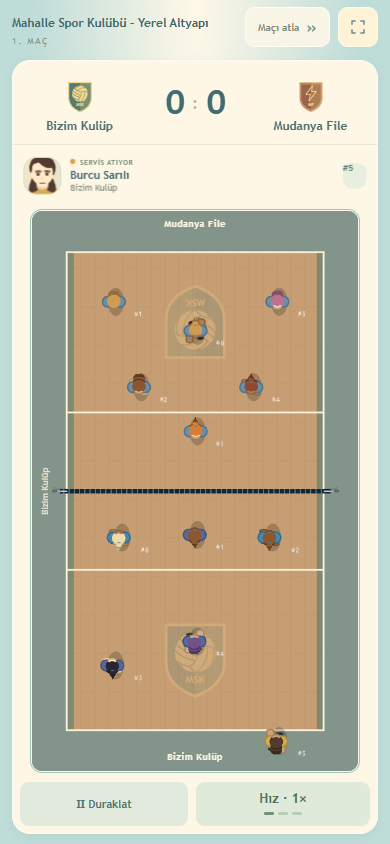
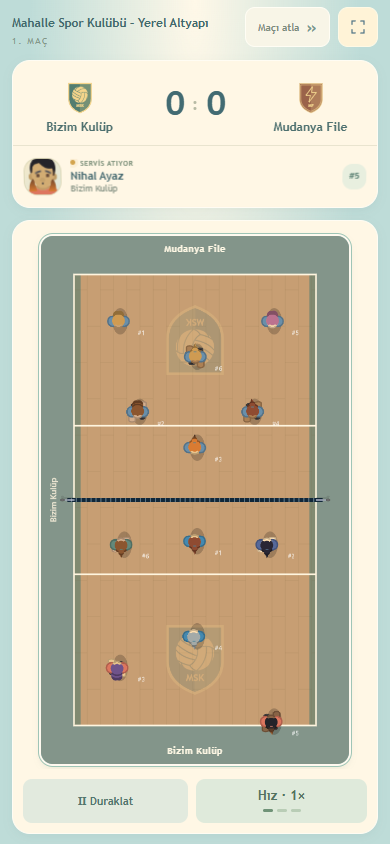
Fit fullscreen UI to visible viewport and restore separate match panels

diff --git a/mac.html b/mac.html
@@ -1,4 +1,4 @@
-<!doctype html><html lang="tr"><head><script>if(new URLSearchParams(location.search).get("bootPepper")==="1")document.documentElement.classList.add("boot-pepper-only");</script><style>html.boot-pepper-only,html.boot-pepper-only body{background:#fff3d7!important}html.boot-pepper-only body>:not(#bootPepperStage){display:none!important}</style><meta charset="utf-8"><meta name="viewport" content="width=device-width,initial-scale=1,viewport-fit=cover"><title>Maç günü · Idle Spiker</title><style>*{box-sizing:border-box}body{margin:0;background:#101a29;color:#edf3fc;font:15px system-ui}main{max-width:1200px;margin:auto;padding:24px}header,.toolbar{display:flex;align-items:center;justify-content:space-between;gap:16px;flex-wrap:wrap}h1{font-size:25px;margin:0}p{color:#a9b8cd}a{color:#b0efd4}button,select{font:inherit;background:#233850;color:#fff;border:1px solid #4b617a;border-radius:9px;padding:10px 15px;cursor:pointer}.toolbar{justify-content:flex-start;margin:18px 0}canvas{display:block;width:100%;background:#19394a;border-radius:16px;border:1px solid #40596a}#score{font-size:24px;font-weight:700}#event{padding:14px;background:#1d2b3e;border-radius:10px;margin:12px 0;min-height:48px}.muted{font-size:13px}input{vertical-align:middle;max-width:120px}</style><link rel="stylesheet" href="match-mobile.css?v=5e317d4d24de"><link rel="stylesheet" href="match-skills.css?v=6fd30ac70f90"><link rel="stylesheet" href="language.css?v=b027c2a552b8"><script src="language-data.js?v=80bdfed06357"></script><script src="language.js?v=6352cc5dd035"></script><link rel="stylesheet" href="match-rival-styles.css?v=784f5d52bc09"><link rel="stylesheet" href="modal-backdrop.css?v=aaf247696ed5"><link rel="stylesheet" href="flow-lanes.css?v=d7f1e62ee16b"><link rel="stylesheet" href="match-announcement.css?v=2d5af2835f11"><link rel="stylesheet" href="match-ap-bubbles.css?v=b14d0d797014"></head><body><main><div class="match-heading"><small>MAHALLE SPOR KULÜBÜ</small><h2>Maç günü</h2></div><div class="team-labels"><span>🔵 Bizim takım</span><span>Rakip takım 🔴</span></div><header><div><h1>Deneme modu · Voleybol</h1><p>Bizim karakterler, üç vuruş ve arada kaçan toplar.</p></div><a href="uc-parca-editoru.html">← Yerleşim editörüne dön</a><div id="score">0 : 0</div></header><div class="toolbar"><button id="pause">Duraklat</button><button id="restart">Maçı yeniden başlat</button><label>Top <select id="ballStyle"><option value="ball_volley1.png">Beyaz voleybol topu</option><option value="ball_volley2.png">Sarı voleybol topu</option></select></label><label>Hız <select id="speed"><option value="0.7">Yavaş</option><option value="1" selected>Normal</option><option value="1.5">Hızlı</option></select></label><label>Top düşürme <input id="mistakes" type="range" min="0" max="35" value="12"> <span id="rate">%12</span></label><span id="touch">Servis hazırlanıyor</span></div><div class="toolbar" aria-label="Senaryo testleri"><strong>WASD · Shift: adımlama · Space: smaç · E: yönlü toss</strong><button id="controlPlayer">Oyuncuyu kontrol et · WASD</button><button id="feedBall">Pas iste</button><button id="practiceServe">Servisi dene</button><button id="test-block">Blok</button><button id="test-toss">Toss / Pas</button><button id="test-serve">Servis</button><button id="test-spike">Spike / Smaç</button><button id="returnMatch">Maça dön</button><button id="testRotation">↻ Rotasyonu göster</button><label>Formasyon <select id="formationMode"><option value="auto">Otomatik maç</option><option value="serve">Servis</option><option value="receive">Karşılama (W)</option><option value="attack">Hücum hazırlığı</option><option value="defend">Blok / savunma</option></select></label></div><section id="servicePanel" hidden style="padding:16px;background:#263f56;border-radius:12px;margin-bottom:12px"><strong>Servis sırası sende</strong><p id="serviceHint"></p><progress id="serviceMeter" max="100" value="0" style="width:220px"></progress> <span id="serviceReadout"></span> <button id="serviceAction">Space</button></section><div class="court-space"><div class="court-viewport"><span class="court-team court-away" data-team-name="1">Rakip takım</span><span class="court-team court-home" data-team-name="0">Bizim Kulüp</span><canvas id="court" width="1000" height="620"></canvas></div></div><div class="match-controls"><button id="mobilePause">Ⅱ Duraklat</button><button id="mobileSpeed">Hız · 1×</button></div><div id="event" role="status">Karakterler hazırlanıyor…</div><p class="muted">Servis hakkını kazanan takım saat yönünde döner; aynı takım sayı aldığında aynı oyuncu servis atar. Set: 5 sayı ve en az 2 fark. Otomatik 6’ya 6 oyun: karşılama → takım içi pas → üçüncü vuruşla karşıya gönderme. Kaçan top yere düşer, sayı yazılır ve yeni servis başlar. Kollar onayladığın omuz bağlantıları etrafında hareket eder.</p></main><script src="rival-styles.js?v=a43c42c91007"></script><script>
+<!doctype html><html lang="tr"><head><script>if(new URLSearchParams(location.search).get("bootPepper")==="1")document.documentElement.classList.add("boot-pepper-only");</script><style>html.boot-pepper-only,html.boot-pepper-only body{background:#fff3d7!important}html.boot-pepper-only body>:not(#bootPepperStage){display:none!important}</style><meta charset="utf-8"><meta name="viewport" content="width=device-width,initial-scale=1,viewport-fit=cover"><title>Maç günü · Idle Spiker</title><style>*{box-sizing:border-box}body{margin:0;background:#101a29;color:#edf3fc;font:15px system-ui}main{max-width:1200px;margin:auto;padding:24px}header,.toolbar{display:flex;align-items:center;justify-content:space-between;gap:16px;flex-wrap:wrap}h1{font-size:25px;margin:0}p{color:#a9b8cd}a{color:#b0efd4}button,select{font:inherit;background:#233850;color:#fff;border:1px solid #4b617a;border-radius:9px;padding:10px 15px;cursor:pointer}.toolbar{justify-content:flex-start;margin:18px 0}canvas{display:block;width:100%;background:#19394a;border-radius:16px;border:1px solid #40596a}#score{font-size:24px;font-weight:700}#event{padding:14px;background:#1d2b3e;border-radius:10px;margin:12px 0;min-height:48px}.muted{font-size:13px}input{vertical-align:middle;max-width:120px}</style><link rel="stylesheet" href="match-mobile.css?v=af0d6b245ca2"><link rel="stylesheet" href="match-skills.css?v=6fd30ac70f90"><link rel="stylesheet" href="language.css?v=b027c2a552b8"><script src="language-data.js?v=80bdfed06357"></script><script src="language.js?v=6352cc5dd035"></script><link rel="stylesheet" href="match-rival-styles.css?v=784f5d52bc09"><link rel="stylesheet" href="modal-backdrop.css?v=aaf247696ed5"><link rel="stylesheet" href="flow-lanes.css?v=d7f1e62ee16b"><link rel="stylesheet" href="match-announcement.css?v=15c71fd1f7ac"><link rel="stylesheet" href="match-ap-bubbles.css?v=b14d0d797014"></head><body><main><div class="match-heading"><small>MAHALLE SPOR KULÜBÜ</small><h2>Maç günü</h2></div><div class="team-labels"><span>🔵 Bizim takım</span><span>Rakip takım 🔴</span></div><header><div><h1>Deneme modu · Voleybol</h1><p>Bizim karakterler, üç vuruş ve arada kaçan toplar.</p></div><a href="uc-parca-editoru.html">← Yerleşim editörüne dön</a><div id="score">0 : 0</div></header><div class="toolbar"><button id="pause">Duraklat</button><button id="restart">Maçı yeniden başlat</button><label>Top <select id="ballStyle"><option value="ball_volley1.png">Beyaz voleybol topu</option><option value="ball_volley2.png">Sarı voleybol topu</option></select></label><label>Hız <select id="speed"><option value="0.7">Yavaş</option><option value="1" selected>Normal</option><option value="1.5">Hızlı</option></select></label><label>Top düşürme <input id="mistakes" type="range" min="0" max="35" value="12"> <span id="rate">%12</span></label><span id="touch">Servis hazırlanıyor</span></div><div class="toolbar" aria-label="Senaryo testleri"><strong>WASD · Shift: adımlama · Space: smaç · E: yönlü toss</strong><button id="controlPlayer">Oyuncuyu kontrol et · WASD</button><button id="feedBall">Pas iste</button><button id="practiceServe">Servisi dene</button><button id="test-block">Blok</button><button id="test-toss">Toss / Pas</button><button id="test-serve">Servis</button><button id="test-spike">Spike / Smaç</button><button id="returnMatch">Maça dön</button><button id="testRotation">↻ Rotasyonu göster</button><label>Formasyon <select id="formationMode"><option value="auto">Otomatik maç</option><option value="serve">Servis</option><option value="receive">Karşılama (W)</option><option value="attack">Hücum hazırlığı</option><option value="defend">Blok / savunma</option></select></label></div><section id="servicePanel" hidden style="padding:16px;background:#263f56;border-radius:12px;margin-bottom:12px"><strong>Servis sırası sende</strong><p id="serviceHint"></p><progress id="serviceMeter" max="100" value="0" style="width:220px"></progress> <span id="serviceReadout"></span> <button id="serviceAction">Space</button></section><div class="court-space"><div class="court-viewport"><span class="court-team court-away" data-team-name="1">Rakip takım</span><span class="court-team court-home" data-team-name="0">Bizim Kulüp</span><canvas id="court" width="1000" height="620"></canvas></div></div><div class="match-controls"><button id="mobilePause">Ⅱ Duraklat</button><button id="mobileSpeed">Hız · 1×</button></div><div id="event" role="status">Karakterler hazırlanıyor…</div><p class="muted">Servis hakkını kazanan takım saat yönünde döner; aynı takım sayı aldığında aynı oyuncu servis atar. Set: 5 sayı ve en az 2 fark. Otomatik 6’ya 6 oyun: karşılama → takım içi pas → üçüncü vuruşla karşıya gönderme. Kaçan top yere düşer, sayı yazılır ve yeni servis başlar. Kollar onayladığın omuz bağlantıları etrafında hareket eder.</p></main><script src="rival-styles.js?v=a43c42c91007"></script><script>
 (function(root){
 'use strict';
 const clamp=(n,a,b)=>Math.max(a,Math.min(b,n));

diff --git a/index.html b/index.html
@@ -1,5 +1,5 @@
 <!doctype html>
-<html lang="tr"><head><script src="flow-preview-environment.js?v=bd84173813bd"></script><meta charset="utf-8"><meta name="viewport" content="width=device-width,initial-scale=1,viewport-fit=cover"><meta name="theme-color" content="#72c8e5"><link rel="manifest" href="manifest.webmanifest"><link rel="apple-touch-icon" href="assets/app/apple-touch-icon.png"><meta name="apple-mobile-web-app-capable" content="yes"><meta name="apple-mobile-web-app-title" content="Idle Spiker"><meta name="apple-mobile-web-app-status-bar-style" content="default"><link rel="stylesheet" href="app-display.css?v=080ecf4daa9a"><script src="app-display.js?v=a34608f5d515" defer></script><title>Idle Spiker · Kulüp Merkezi</title><link rel="stylesheet" href="menu.css?v=7f4cff442596"><link rel="stylesheet" href="menu-game.css?v=7c47dfcd1936"><link rel="stylesheet" href="team.css?v=bcffe6b92c1a"><link rel="stylesheet" href="league-season.css?v=6a6a164bc92c"><style>#bootScreen{position:fixed;inset:0;max-width:480px;margin-inline:auto;z-index:10000;display:grid;place-content:center;justify-items:center;gap:20px;background:#fff3d7;color:#547c83;font-family:system-ui,sans-serif}#bootScreen strong{font-size:30px;letter-spacing:2px}#bootScreen strong span{color:#bb995b}#bootScreen p{font-size:12px;margin:0;color:#819383}#bootPepper{visibility:hidden;width:260px;height:212px;border:0;background:transparent;pointer-events:none}#bootScreen img{width:48px;height:48px;animation:boot-bounce 1.2s ease-in-out infinite}@keyframes boot-bounce{50%{transform:translateY(-12px) rotate(18deg)}}@media(prefers-reduced-motion:reduce){#bootScreen img{animation:none}}</style><link rel="stylesheet" href="club-journey.css?v=917a08a31784"><link rel="stylesheet" href="bal-stage.css?v=444abd056d33"><script src="season-clock.js?v=656aaba36264"></script><script src="bal-recovery.js?v=003056f070b8"></script><script src="weekly-season-migration.js?v=c91052e58aec"></script><script src="number-ui.js?v=a24b5930e991"></script><link rel="stylesheet" href="theme.css?v=0b9605642a6e"><script src="theme.js?v=2ff3fa24a10d"></script><link rel="stylesheet" href="achievements.css?v=1c29bee815e6"><link rel="stylesheet" href="division-three.css?v=78ff12e9b771"><link rel="stylesheet" href="social-screen.css?v=6af08b4f68fb"><link rel="stylesheet" href="league-players.css?v=86e88a43a3b5"><link rel="stylesheet" href="language.css?v=b027c2a552b8"><script src="language-data.js?v=80bdfed06357"></script><script src="language.js?v=6352cc5dd035"></script><link rel="stylesheet" href="player-skills.css?v=c6311b52ef2f"><link rel="stylesheet" href="styles/ui/player-club-card.css?v=db2b858286ff"><link rel="stylesheet" href="styles/ui/transfer-center.css?v=7bcc2f214fba"><script src="scripts/ui/dialog-navigation.js?v=0988251be4a1" defer></script><link rel="stylesheet" href="social-journey.css?v=381c58c2dc22"><link rel="stylesheet" href="next-match-card.css?v=05b830fcc39d"><link rel="stylesheet" href="social-follower-counter.css?v=038892551d63"><link rel="stylesheet" href="player-profile.css?v=9c3d709eac72"><link rel="stylesheet" href="ui-icons.css?v=b5ce6adfd485"><link rel="stylesheet" href="flow-effects.css?v=f82bf838ab8c"><link rel="stylesheet" href="board-doodles.css?v=85c5f17bdbe1"><link rel="stylesheet" href="board-presentation.css?v=3ae360fc348f"><link rel="stylesheet" href="progression-visuals.css?v=1e6ac8134075"><link rel="stylesheet" href="flow-lanes.css?v=d7f1e62ee16b"><link rel="stylesheet" href="flow-media-theme.css?v=a959430cbe25"><link rel="stylesheet" href="ui-components.css?v=7134f0d3ab29"><link rel="stylesheet" href="academy.css?v=1b4435c160c0"></head>
+<html lang="tr"><head><script src="flow-preview-environment.js?v=bd84173813bd"></script><meta charset="utf-8"><meta name="viewport" content="width=device-width,initial-scale=1,viewport-fit=cover"><meta name="theme-color" content="#72c8e5"><link rel="manifest" href="manifest.webmanifest"><link rel="apple-touch-icon" href="assets/app/apple-touch-icon.png"><meta name="apple-mobile-web-app-capable" content="yes"><meta name="apple-mobile-web-app-title" content="Idle Spiker"><meta name="apple-mobile-web-app-status-bar-style" content="default"><link rel="stylesheet" href="app-display.css?v=01623cdf88a1"><script src="app-display.js?v=1c48fe0ea047" defer></script><title>Idle Spiker · Kulüp Merkezi</title><link rel="stylesheet" href="menu.css?v=7f4cff442596"><link rel="stylesheet" href="menu-game.css?v=7c47dfcd1936"><link rel="stylesheet" href="team.css?v=bcffe6b92c1a"><link rel="stylesheet" href="league-season.css?v=6a6a164bc92c"><style>#bootScreen{position:fixed;inset:0;max-width:480px;margin-inline:auto;z-index:10000;display:grid;place-content:center;justify-items:center;gap:20px;background:#fff3d7;color:#547c83;font-family:system-ui,sans-serif}#bootScreen strong{font-size:30px;letter-spacing:2px}#bootScreen strong span{color:#bb995b}#bootScreen p{font-size:12px;margin:0;color:#819383}#bootPepper{visibility:hidden;width:260px;height:212px;border:0;background:transparent;pointer-events:none}#bootScreen img{width:48px;height:48px;animation:boot-bounce 1.2s ease-in-out infinite}@keyframes boot-bounce{50%{transform:translateY(-12px) rotate(18deg)}}@media(prefers-reduced-motion:reduce){#bootScreen img{animation:none}}</style><link rel="stylesheet" href="club-journey.css?v=917a08a31784"><link rel="stylesheet" href="bal-stage.css?v=444abd056d33"><script src="season-clock.js?v=656aaba36264"></script><script src="bal-recovery.js?v=003056f070b8"></script><script src="weekly-season-migration.js?v=c91052e58aec"></script><script src="number-ui.js?v=a24b5930e991"></script><link rel="stylesheet" href="theme.css?v=0b9605642a6e"><script src="theme.js?v=2ff3fa24a10d"></script><link rel="stylesheet" href="achievements.css?v=1c29bee815e6"><link rel="stylesheet" href="division-three.css?v=78ff12e9b771"><link rel="stylesheet" href="social-screen.css?v=6af08b4f68fb"><link rel="stylesheet" href="league-players.css?v=86e88a43a3b5"><link rel="stylesheet" href="language.css?v=b027c2a552b8"><script src="language-data.js?v=80bdfed06357"></script><script src="language.js?v=6352cc5dd035"></script><link rel="stylesheet" href="player-skills.css?v=c6311b52ef2f"><link rel="stylesheet" href="styles/ui/player-club-card.css?v=db2b858286ff"><link rel="stylesheet" href="styles/ui/transfer-center.css?v=7bcc2f214fba"><script src="scripts/ui/dialog-navigation.js?v=0988251be4a1" defer></script><link rel="stylesheet" href="social-journey.css?v=381c58c2dc22"><link rel="stylesheet" href="next-match-card.css?v=05b830fcc39d"><link rel="stylesheet" href="social-follower-counter.css?v=038892551d63"><link rel="stylesheet" href="player-profile.css?v=9c3d709eac72"><link rel="stylesheet" href="ui-icons.css?v=b5ce6adfd485"><link rel="stylesheet" href="flow-effects.css?v=f82bf838ab8c"><link rel="stylesheet" href="board-doodles.css?v=85c5f17bdbe1"><link rel="stylesheet" href="board-presentation.css?v=3ae360fc348f"><link rel="stylesheet" href="progression-visuals.css?v=1e6ac8134075"><link rel="stylesheet" href="flow-lanes.css?v=d7f1e62ee16b"><link rel="stylesheet" href="flow-media-theme.css?v=a959430cbe25"><link rel="stylesheet" href="ui-components.css?v=7134f0d3ab29"><link rel="stylesheet" href="academy.css?v=1b4435c160c0"></head>
 <body><div id="bootScreen" role="status" aria-live="polite"><strong>IDLE<span>SPIKER</span></strong><iframe id="bootPepper" src="mac.html?bootPepper=1" title="Isınma yapan iki oyuncu" tabindex="-1" aria-hidden="true"></iframe><p>Kulüp hazırlanıyor…</p></div><script>window.bootStartedAt=performance.now();window.bootFallback=setTimeout(function(){document.getElementById("bootScreen")?.remove()},10000)</script><div class="shell"><aside class="rail"><a class="brand" href="index.html" aria-label="Idle Spiker ana menü"><svg viewBox="0 0 40 40" aria-hidden="true"><circle cx="20" cy="20" r="15"/><path d="M7 13q15 0 18 22M19 5q-5 13-12 19M34 17q-12-3-19 13"/></svg></a><span class="rail-word">IDLE SPIKER</span><a class="rail-icon active" href="index.html" aria-label="Kulüp merkezi" title="Kulüp merkezi">⌂</a><span class="rail-bottom">01 / CLUB</span></aside>
 <div class="content"><header class="topbar"><a href="index.html" class="wordmark">IDLE<span>SPIKER</span><small>VOLEYBOL KULÜBÜ</small></a><nav aria-label="Ana gezinme"><span class="nav-current">Kulüp merkezi</span></nav><button id="settingsButton" class="settings-button" type="button" aria-label="Ayarları aç">⚙ Ayarlar</button></header>
 <main><div class="dashboard"><section id="clubPanel" class="club-panel" aria-label="Kulüp departmanları"><div class="section-top"><div><span class="eyebrow">BİZİM KULÜP · AŞAMA 1</span></div></div>

diff --git a/app-display.js b/app-display.js
@@ -6,9 +6,21 @@ const appMode=()=>installed||standalone.matches||(fullscreen.matches&&!fullEleme
 const fullElement=()=>document.fullscreenElement||document.webkitFullscreenElement;
 const supported=()=>!!((document.fullscreenEnabled&&document.documentElement.requestFullscreen)||(document.webkitFullscreenEnabled&&document.documentElement.webkitRequestFullscreen));
 let toggle,install,status,matchButton,help;
+let viewportFrame=0;
+function fitViewport(){
+ const root=document.documentElement,v=window.visualViewport,unzoomed=v&&Math.abs(v.scale-1)<.01;
+ const width=unzoomed?Math.min(innerWidth,v.width):innerWidth,height=unzoomed?Math.min(innerHeight,v.height):innerHeight;
+ const top=unzoomed?v.offsetTop:0,left=unzoomed?v.offsetLeft:0;
+ const values={'--app-view-height':height,'--app-view-width':width,'--app-view-top':top,'--app-view-left':left,'--app-view-bottom':Math.max(0,innerHeight-height-top),'--app-view-right':Math.max(0,innerWidth-width-left)};
+ for(const [key,value]of Object.entries(values)){const px=Math.round(value*100)/100+'px';if(root.style.getPropertyValue(key)!==px)root.style.setProperty(key,px);}
+}
+function scheduleViewport(){if(viewportFrame)return;viewportFrame=requestAnimationFrame(()=>{viewportFrame=0;fitViewport();});}
+addEventListener('resize',scheduleViewport);addEventListener('orientationchange',scheduleViewport);
+window.visualViewport?.addEventListener('resize',scheduleViewport);window.visualViewport?.addEventListener('scroll',scheduleViewport);
 function update(){
  if(!toggle)return;
  const active=!!fullElement();
+ document.documentElement.classList.toggle('app-expanded',active||standalone.matches||fullscreen.matches||navigator.standalone===true);fitViewport();
  toggle.disabled=busy||!supported();toggle.textContent=active?'Tam ekrandan çık':'Tam ekran';toggle.setAttribute('aria-pressed',String(active));
  matchButton.hidden=!supported();matchButton.disabled=busy;const label=active?'Tam ekrandan çık':'Tam ekran';matchButton.title=label;matchButton.setAttribute('aria-label',label);matchButton.innerHTML='<svg viewBox="0 0 24 24" width="18" height="18" fill="none" stroke="currentColor" stroke-width="1.8" aria-hidden="true"><path d="'+(active?'M4 9h5V4m11 5h-5V4M4 15h5v5m11-5h-5v5':'M9 4H4v5m11-5h5v5M4 15v5h5m11-5v5h-5')+'"/></svg>';matchButton.setAttribute('aria-pressed',String(active));
  install.disabled=appMode()||busy;install.textContent=appMode()?(installed?'Ana ekrana eklendi':'Uygulama olarak açık'):installPrompt?'Yükle':'Nasıl eklenir?';

diff --git a/app-display.css b/app-display.css
@@ -5,3 +5,11 @@ html:fullscreen,html:fullscreen body{background:#bedcd8;width:100%;height:100%}
 html:-webkit-full-screen,html:-webkit-full-screen body{background:#bedcd8;width:100%;height:100%}
 
 #installAppHelp footer{justify-content:flex-end}
+
+/* The layout viewport can stay larger than the visible screen during rotation or keyboard use. */
+html.app-expanded body{min-width:0;min-height:100%;height:auto}
+html.app-expanded .shell{min-width:0;width:min(480px,100%);max-width:100%}html.app-expanded .content{min-width:0;max-width:100%}
+html.app-expanded .mobile-nav{left:var(--app-view-left,0px);right:var(--app-view-right,0px);bottom:var(--app-view-bottom,0px);margin-inline:auto;transform:none;width:min(480px,var(--app-view-width,100vw));max-width:100%}
+html.app-expanded .energy-button{left:var(--app-view-left,0px);right:var(--app-view-right,0px);bottom:calc(var(--app-view-bottom,0px) + 68px + env(safe-area-inset-bottom));margin-inline:auto;width:min(452px,calc(var(--app-view-width,100vw) - 28px));max-width:calc(100% - 28px)}
+html.app-expanded dialog:modal{inset:var(--app-view-top,0px) var(--app-view-right,0px) var(--app-view-bottom,0px) var(--app-view-left,0px);margin:auto;max-width:calc(var(--app-view-width,100vw) - 24px)!important;max-height:calc(var(--app-view-height,100dvh) - 24px)!important;overscroll-behavior:contain}
+html.app-expanded dialog.game-match-dialog:modal{width:min(480px,var(--app-view-width,100vw));height:var(--app-view-height,100dvh);max-width:var(--app-view-width,100vw)!important;max-height:var(--app-view-height,100dvh)!important}

diff --git a/match-mobile.css b/match-mobile.css
@@ -256,14 +256,3 @@ main>header,.team-labels,.toolbar,.muted,.match-live,.team-mark,.score-team smal
 .serve-strip.point-strip-enter{animation:none}.serve-strip.has-server{transition:none}
 
 .notice-page-back>.serve-strip[data-point="false"]{background:#fff7e5!important}
-
-
-/* One continuous match sheet: the court starts directly under the announcement. */
-.match-arena{gap:0;padding:0;background:#fff7e5;border:1px solid #fffcf3;border-radius:18px;box-shadow:0 3px 10px #43675d12;overflow:hidden}
-.match-arena .match-board{flex:none;padding:9px 10px 0;background:transparent;border:0;border-radius:0;box-shadow:none}
-.match-play-area{padding:0 7px 7px;gap:6px;background:transparent;border:0;border-radius:0;box-shadow:none}
-.match-arena .court-space{padding:3px 0;border-radius:0}
-.match-arena .court-viewport{border-radius:10px;box-shadow:0 0 0 1px #fffaf0,0 0 0 2px #9fc5b6}
-.match-arena .serve-strip.has-server,.match-arena .notice-page-front,.match-arena .notice-page-back,.match-arena .score-page-back,.match-arena .score-page-underlay{border-radius:0}
-@media(max-height:700px){.match-arena{gap:0;padding:0}.match-arena .match-board{padding-top:7px}.match-play-area{padding:0 6px 6px;gap:5px}}
-@media(min-aspect-ratio:6/5) and (max-height:500px){.match-arena{gap:8px;padding:7px}.match-arena .match-board{padding:0}.match-play-area{padding:0;gap:6px}}

diff --git a/match-announcement.css b/match-announcement.css
@@ -48,3 +48,6 @@
 /* No empty skill row while the announcement only shows the player. */
 .match-arena .serve-strip.has-server:has(.server-skill[hidden]){grid-template-columns:38px minmax(0,1fr) 24px;grid-template-rows:1fr;row-gap:0}.match-arena .serve-strip.has-server:has(.server-skill[hidden]) .server-number{grid-column:3}
 
+
+/* Center the jersey text inside its existing fixed badge. */
+.match-arena .serve-strip.has-server .server-number{display:grid;place-items:center;align-self:center;text-align:center;line-height:1;margin:0;padding:0;font-variant-numeric:tabular-nums}

diff --git a/DESIGN-SYSTEM.md b/DESIGN-SYSTEM.md
@@ -409,12 +409,11 @@ Kullanıcı, başa sardığı belli olan klipler yerine topun geri döndüğü, 
 - Doğrulama: test-transfer-unopened-catalog.cjs (8 kart, kapat/aç, yenileme, hazır göstergesinin kapanması ve başarısız kayıt sonrası tekrar deneme); test-transfer-pointer.cjs; test-scout-consistency.cjs. Eski test-scouting.cjs ve test-scout-cadence.cjs mevcut 10 günlük süre / %55 başlangıç şansı yerine eski 6 gün / %40 değerlerini bekliyor; bu değişiklik keşif dengesini değiştirmez.
 
 
-## 25 Ekim 2026 — Birleşik maç yüzeyi
+## 25 Ekim 2026 — Maç düzeni (güncel)
 
-- Kullanıcının isteğiyle skor/anons ve saha ayrı kutular yerine tek krem yüzeyde birleşir. Aradaki 12px bölüm boşluğu ve ikinci kutunun üst dolgusu kaldırılır; ince saha çerçevesi korunur.
-- Anonsun 62px sabit yüksekliği, tek satır portre/yetenek düzeni ve sayı-sebebi dönüşü korunur. Saha çizim açısı ve oyuncu ölçeğiyle oynanmaz; aynı orandaki görünüm daha büyük alana sığdırılır.
-- 390×844 kontrolünde saha 308×528 yerine yaklaşık 327×560px. Mobil/masaüstü/yatay fit, anons dönüşünde sabit geometri ve portre testleri geçti: test-match-unified-sheet.cjs, test-announcement-layout.cjs, test-announcement-portraits.cjs. Görsel audits/match-unified-sheet-mobile.png.
-
+- Kullanıcının son kararı: skor/anons kutusu ve saha kutusu önceki ayrı düzeninde kalır. Birleşik yüzey denemesi geri alındı; üretim referansı değildir.
+- Anons 62px yüksekliğini, portre/yetenek satırını ve sayı-sebebi dönüşünü korur. Forma numarası mevcut 24×26px rozet içinde grid ile yatay/dikey ortalanır; rozet de oyuncu bilgisiyle aynı merkez hizasındadır.
+- test-match-unified-sheet.cjs artık geçerli olmayan birleşik tasarımı doğruladığı için kaldırıldı. test-fullscreen-layout.cjs ve mevcut anons testleri güncel düzeni doğrular.
 
 ## 25 Ekim 2026 — Tam ekran ve ana ekran desteği
 
@@ -424,3 +423,10 @@ Kullanıcı, başa sardığı belli olan klipler yerine topun geri döndüğü, 
 - beforeinstallprompt desteklenirse kullanıcı tıklamasıyla tek seferlik tarayıcı kurulum akışı; desteklenmezse ortak GameUI.selection içinde kısa platforma uygun adımlar. iPhone/iPad Safari için Paylaş → Ana Ekrana Ekle ve Web Uygulaması Olarak Aç açıklaması. Kurulum otomatik zorlanmaz.
 - Bu kapsamda offline cache veya service worker eklenmedi; güncel kod/asset yüklemesi değiştirilmez. Kaynaklar app-display.js/css ve manifest.webmanifest.
 - Kontrol: test-app-display.cjs gerçek Chromium tam ekran giriş/çıkışı, CDP manifest doğrulaması, simgelerin yüklenmesi; kurulum prompt durumları ve desteklenmeyen iPhone davranışı simüle edilmiştir. Fiziksel iPhone’da kurulum testi yapılmadı. test-match-preload.cjs gerçek maçta tam ekran simgesini de doğrular. Görseller audits/app-display-settings.png, audits/app-install-help.png, audits/app-display-match-mobile.png.
+
+
+## Tam ekran: görünür alan sınırları
+
+- Tam ekran/kurulu uygulamada VisualViewport resize/scroll, pencere resize ve orientationchange olayları tek animation frame içinde ekran ölçülerini günceller. Pinch zoom büyütmesi düzeni küçültme amacıyla kullanılmaz.
+- Alt menü ve talimat düğmesi 480px kulüp kabuğuyla ortalanır; görünür alan genişliği ve konumuyla sınırlandırılır. Ekran daralınca dialog ölçüleri ve merkez konumu da daralan alana uyar. Maç dialogu görünür yüksekliği kullanır; diğer menüler normal içerik kaydırmasını korur.
+- Kontrol: test-fullscreen-layout.cjs; 320×568, 390×844, 844×390, 1024×768 ve klavye benzeri daraltılmış/kaydırılmış VisualViewport simülasyonu. Native tam ekran girişi/çıkışı, gerçek maç hazırlanması, canlı/kopya portre ve anons geometrisi testleri de çalıştırıldı. Fiziksel mobil cihaz testi yapılmadı.
